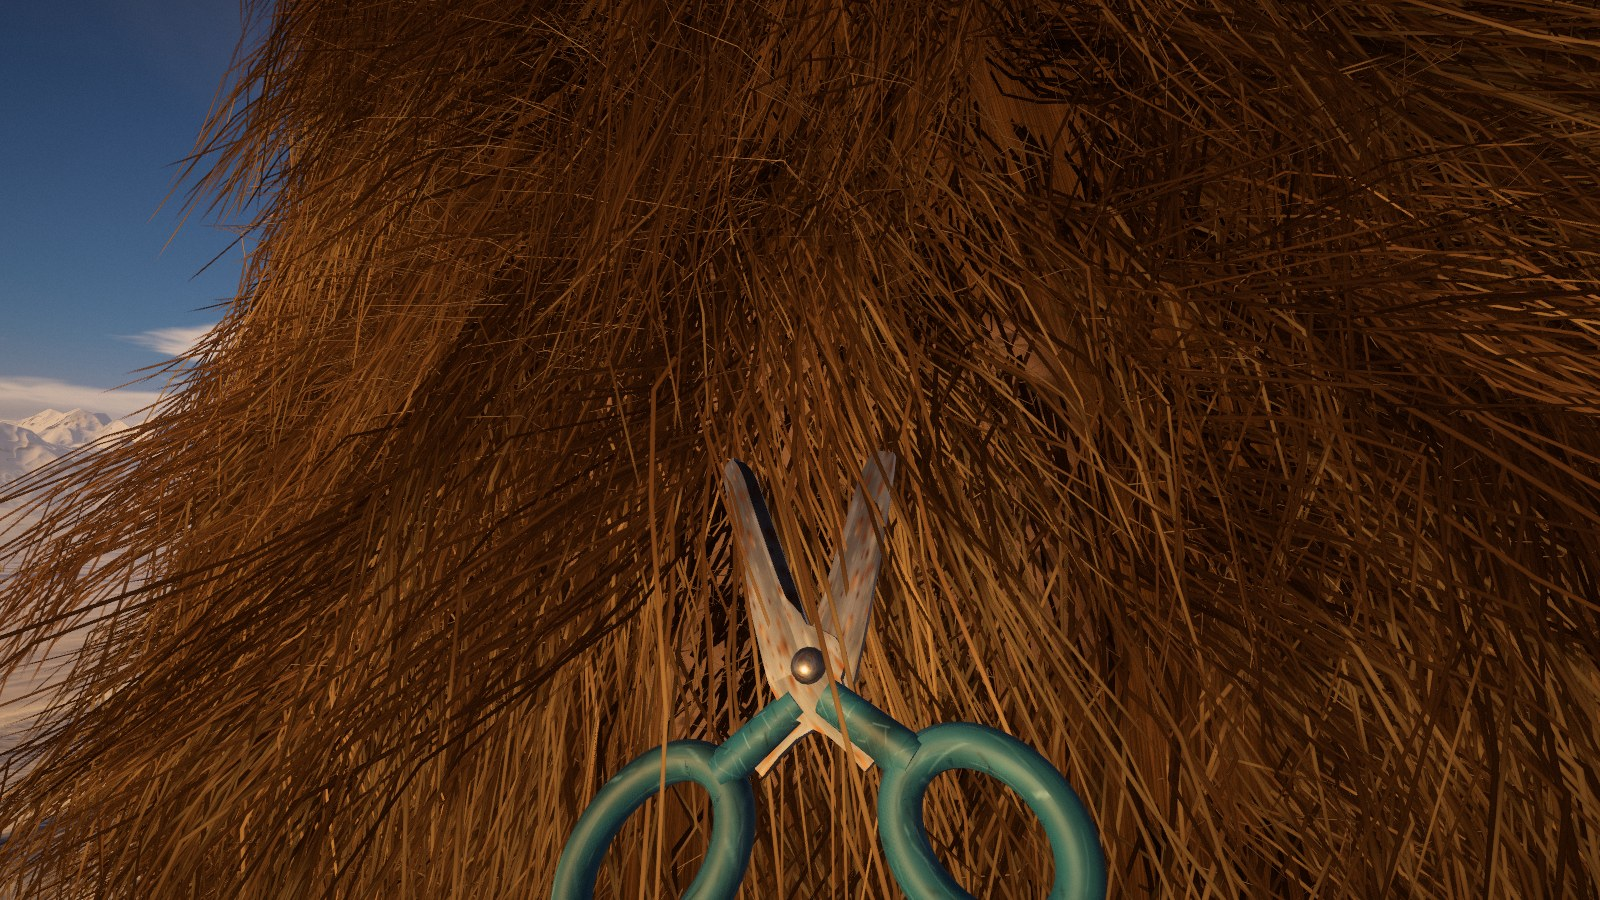
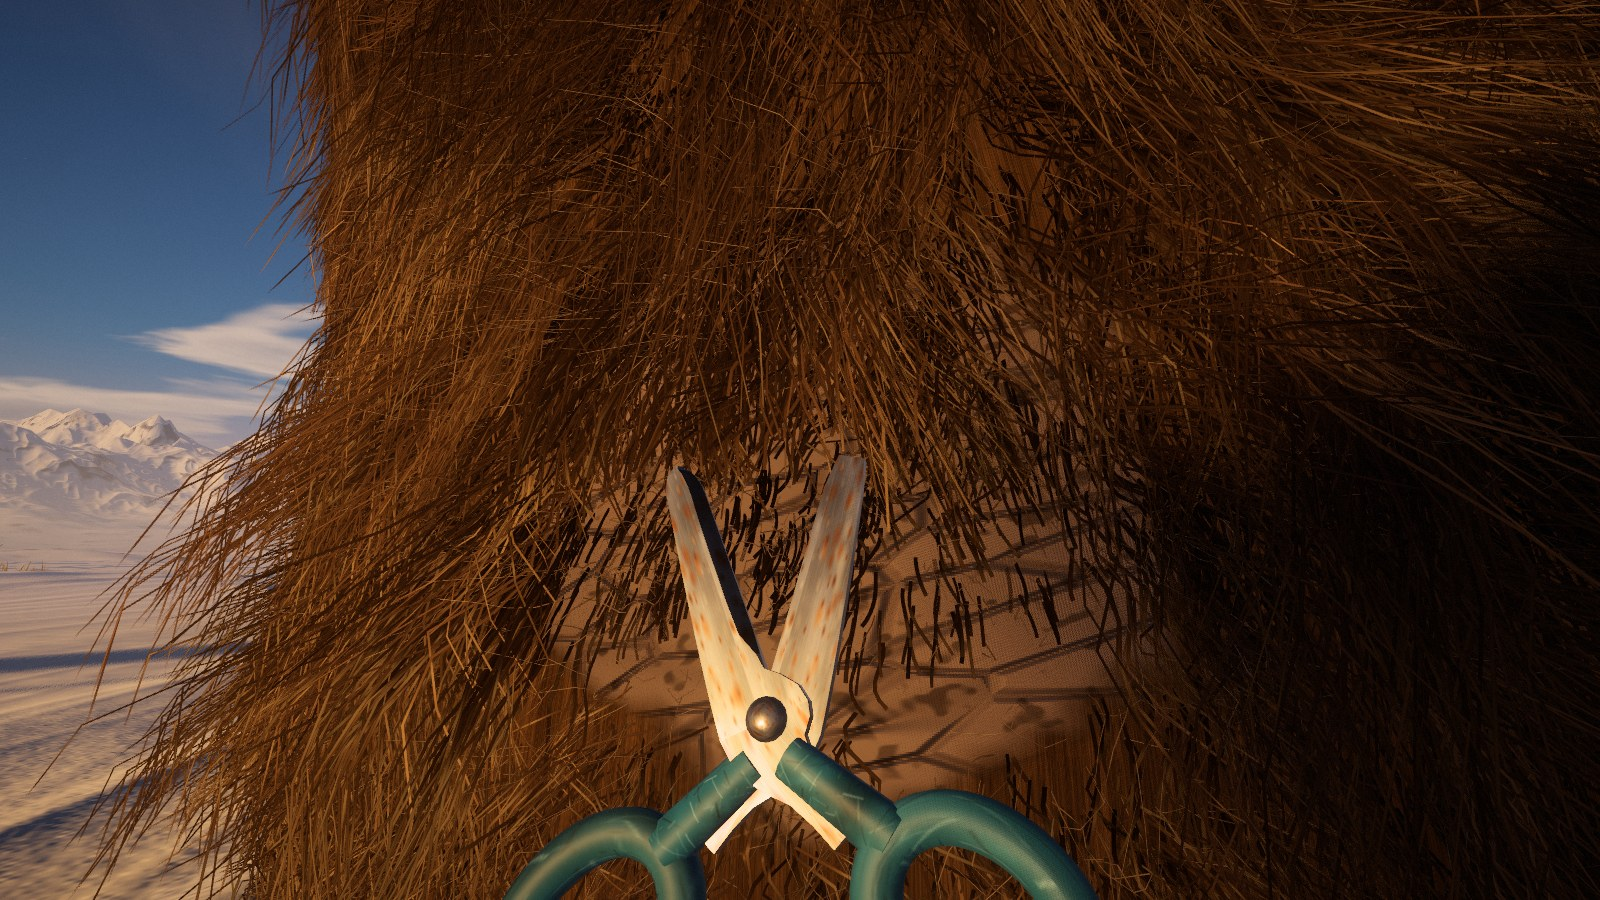
The small bad scissors cut four times as much, and what is cut can be seen to be gone
A minute of steady work round a foreleg with the scissors a new game starts
with took off 30 g (7 gold): several minutes before anything at all could be
afforded, and nothing to show for it on the mammoth, because what was shorn
near the skin stayed hidden under the hair hanging across it from higher up.

- The scissors are half as big again (11 cm, blades of 5), cut nine locks in
  ten of what is between the blades (it was a little over half), cut it less
  raggedly, stick less often and close a little quicker: 125 g a minute now,
  so a pocketful in under a minute, and the shears after half a minute.
- A stroke with the blades lying on the hide takes the tuft they close on:
  the hair under them, as before, and now the hair lying across them from
  above as well, so that a bare patch is bare to look at. The shears and the
  garden clippers do the same, and stay ahead (about 210 and 240 g a minute).
- The notes on prices, the README and the picture of the scissors say what is
  now true. The game test expects a minute of scissors to cut most of a
  pocketful, allows for the tattoo that minute now uncovers, and gives the
  lemmings three quiet seconds before a patch is called finished.

Claude-Session: https://claude.ai/code/session_01BDsvMpvTNq7jPYUs2JzAv5

diff --git a/src/game/tools/scissors.js b/src/game/tools/scissors.js
@@ -1,14 +1,18 @@
 // Small bad scissors: the pair from the back of a kitchen drawer. Blunt,
 // spotted with rust, one point snapped off, faded plastic handles, and a rivet
-// so loose that the blades rattle and never quite meet. 7.5 cm over all, with
-// blades of 3.4 cm.
+// so loose that the blades rattle and never quite meet. 11 cm over all, with
+// blades of 5 cm.
 //
-// They cut like it. Hair folds between the blades as often as it parts, what
-// does part is chewed off at uneven lengths, and now and then they stick
-// half way through a stroke.
+// They cut like it, but they do cut: a lock in ten folds between the blades
+// and slips out, what parts is chewed off a little unevenly, and now and then
+// they stick half way through a stroke. (They were smaller and worse once.
+// Nobody could earn the price of anything better with them.)
 import * as THREE from 'three';
 import { Kit, loft, steelTextures, canvasTexture, rngFrom, smoothstep, lerp } from '../tool.js';
 
+// The pair is modelled at the size it first was, and made half as big again when it is put together (SIZE): every
+// length below is for the smaller pair, and what the game is told about it at the end is multiplied up.
+const SIZE = 1.5;
 const TIPS = [0.034, 0.0322];                // pivot to tip of each blade: the second has lost its point
 const HALF_THICK = 0.00065;
 const OPEN = (38 * Math.PI) / 180;
@@ -130,9 +134,13 @@ export function buildSmallScissors() {
   }, HALF_THICK);
 
   // the rivet: a small domed head above, peened flat below
-  const head = kit.add(kit.group, new THREE.SphereGeometry(0.0024, 16, 8, 0, Math.PI * 2, 0, Math.PI / 2), steel, 'scissors-rivet');
+  const rivet = new THREE.Group();
+  kit.group.add(rivet);
+  const head = kit.add(rivet, new THREE.SphereGeometry(0.0024, 16, 8, 0, Math.PI * 2, 0, Math.PI / 2), steel, 'scissors-rivet');
   head.scale.y = 0.55; head.position.y = 2 * HALF_THICK + 0.0003;
-  kit.add(kit.group, new THREE.CylinderGeometry(0.0021, 0.0021, 0.0007, 12), steel, 'scissors-rivet').position.y = -2 * HALF_THICK - 0.0005;
+  kit.add(rivet, new THREE.CylinderGeometry(0.0021, 0.0021, 0.0007, 12), steel, 'scissors-rivet').position.y = -2 * HALF_THICK - 0.0005;
+  // (all of it, half as big again)
+  for (const part of [kit.upper, kit.lower, rivet]) part.scale.setScalar(SIZE);
 
   // what may not pass through things (the larger ring stands for both)
   const leverSamples = [];
@@ -149,29 +157,31 @@ export function buildSmallScissors() {
     leverSamples.push([centre.x + back.x * ra * Math.cos(th) + out.x * rb * Math.sin(th), 0, centre.z + back.z * ra * Math.cos(th) + out.z * rb * Math.sin(th), 0.0034]);
   }
 
+  const big = (list) => list.map((v) => v * SIZE);
   return {
     id: 'scissors',
     name: 'Small bad scissors',
-    blurb: 'Blunt and loose. They miss half of what they bite.',
+    blurb: 'Blunt and loose, but they bite. One lock in ten gets away.',
     seed: 5,
     kit,
-    halfThick: HALF_THICK,
+    halfThick: HALF_THICK * SIZE,
     open: OPEN,
-    tip: TIPS[0],
-    blade: { from: 0.002, to: TIPS[0], back0: 0.0058, back1: 0.0026, exp: 1.3, edge: 0.0035 },
-    part: { above: 0.02, below: 0.012 },
-    pivotClear: 0.006,
-    cutInner: 0.006,
-    leverSamples,
-    fixedSamples: [[0, 0.0018, 0, 0.003], [0, -0.0016, 0, 0.0028]],
+    tip: TIPS[0] * SIZE,
+    blade: { from: 0.002 * SIZE, to: TIPS[0] * SIZE, back0: 0.0058 * SIZE, back1: 0.0026 * SIZE, exp: 1.3, edge: 0.0035 * SIZE },
+    part: { above: 0.02, below: 0.014 },
+    pivotClear: 0.006 * SIZE,
+    cutInner: 0.006 * SIZE,
+    leverSamples: leverSamples.map(big),
+    fixedSamples: [[0, 0.0018, 0, 0.003], [0, -0.0016, 0, 0.0028]].map(big),
     // held in the right hand, thumb uppermost: off to the right, turned in towards the middle
-    hold: { pos: [0.034, -0.06, -0.115], tilt: (20 * Math.PI) / 180, yaw: (-14 * Math.PI) / 180, roll: (22 * Math.PI) / 180, sway: 0.6 },
-    lie: { tip: 0.004, pivot: 0.007 },
-    reach: 0.115,
-    // stiff to close, slow to open, and three strokes in ten they stick part way
-    stroke: { delay: 0.05, speed0: 1.6, accel: 55, max: 6.5, shut: 0.05, shutHeld: 0.09, open: 0.2, kick: 0.25, catch: { chance: 0.3, time: 0.11 } },
-    // little more than half of what lies between the blades is cut; the rest folds over and slips out, and what is cut is cut ragged
-    cut: { below: 0.018, min: 0.008, chance: 0.55, ragged: 0.012 },
+    hold: { pos: [0.04, -0.072, -0.142], tilt: (20 * Math.PI) / 180, yaw: (-14 * Math.PI) / 180, roll: (22 * Math.PI) / 180, sway: 0.6 },
+    lie: { tip: 0.005, pivot: 0.009 },
+    reach: 0.145,
+    // stiff to close and slow to open, and one stroke in seven they stick part way
+    stroke: { delay: 0.05, speed0: 1.8, accel: 62, max: 7, shut: 0.05, shutHeld: 0.085, open: 0.18, kick: 0.3, catch: { chance: 0.14, time: 0.09 } },
+    // nine locks in ten of what lies between the blades are cut; the others fold over and slip out, and what is cut is cut a little ragged
+    // (lying on the hide they take the whole tuft: what is under the blades, and what hangs across them for a finger's breadth above)
+    cut: { below: 0.024, above: 0.03, min: 0.007, chance: 0.9, ragged: 0.006 },
     voice: 'scissors',
     // the loose rivet: the blades never lie true, and they shiver after every stroke and with every step
     animate: (tool) => {

diff --git a/src/mammoth/mammoth.js b/src/mammoth/mammoth.js
@@ -504,11 +504,14 @@ export class Mammoth {
    * `halfAngle`. A lock is cut where it crosses that sector. With `below` > 0
    * the blades are lying on the hide, and everything between them and the
    * skin (to that depth) goes too: hair rooted under the blades is cut to
-   * stubble. `blades`, `shape` and `backAt` describe the blades themselves:
+   * stubble. So does what lies over them, as far as `above` (the tuft the
+   * blades close on is the hair on top of them as well as the hair beneath;
+   * otherwise what is shorn stays hidden under what hangs across it from
+   * higher up). `blades`, `shape` and `backAt` describe the blades themselves:
    * hair that would pass through one has been swept into the gap, and is cut
    * too. Returns one entry per lock that would be cut.
    */
-  findCuts({ pivot, forward, normal, radius, inner = 0, halfAngle = Math.PI, minLength = 0.006, below = 0, blades = null, shape = null, backAt = null }) {
+  findCuts({ pivot, forward, normal, radius, inner = 0, halfAngle = Math.PI, minLength = 0.006, below = 0, above = 0.003, blades = null, shape = null, backAt = null }) {
     const S = this.sampler;
     S.begin(this.furMats.uniforms.uBreath.value);
     const fx = forward.x, fy = forward.y, fz = forward.z, nx = normal.x, ny = normal.y, nz = normal.z;
@@ -517,7 +520,7 @@ export class Mammoth {
     const full = halfAngle >= Math.PI - 1e-3;
     const cr = (full ? radius : radius * 0.62) + (blades ? 0.02 : 0);
     const cx = full ? px : px + fx * radius * 0.5, cy = full ? py : py + fy * radius * 0.5, cz = full ? pz : pz + fz * radius * 0.5;
-    const NS = 12, above = 0.003;
+    const NS = 12;
     const P = [0, 0, 0], Q = [0, 0, 0];
     const out = [];
     // is a point (given relative to the pivot) over the sector? leaves its polar coordinates in ru, rphi
@@ -557,7 +560,7 @@ export class Mammoth {
         S.point(0, P);
         let dPrev = (P[0] - px) * nx + (P[1] - py) * ny + (P[2] - pz) * nz;
         let len = -1, hx = 0, hy = 0, hz = 0, tx = 0, ty = 0, tz = 0;
-        if (below > 0 && dPrev <= above && dPrev >= -below && over(P[0] - px, P[1] - py, P[2] - pz)) {
+        if (below > 0 && dPrev <= 0.003 && dPrev >= -below && over(P[0] - px, P[1] - py, P[2] - pz)) {
           // rooted under the blades: down to stubble, each lock a slightly different length
           len = minLength * (1 + 0.8 * a.iA[i * 4 + 2]);
           hx = P[0]; hy = P[1]; hz = P[2];

diff --git a/src/game/catalog.js b/src/game/catalog.js
@@ -5,16 +5,19 @@
 // that, 2 kg grows where it can be reached from the snow, another 5 kg within
 // reach of the milk crate, 22 kg more from the step ladder, 29 kg from the
 // painter's ladder, and the last 12 kg from the top of the fire ladder or the
-// air. A patient elf takes about half a gram a second with the bad scissors,
-// 3 to 5 with the shears, 5 to 10 with the garden clippers, and as much as the
-// hands can sweep with the electric ones. So: a pocketful (100 g, three
-// minutes of bad scissors) buys the shears and a broom; what grows near the
-// ground pays for the first ladders and the clippers; and after that each
-// purchase opens up more mammoth than it cost.
+// air. Working steadily round a foreleg an elf takes about 2 grams a second
+// with the bad scissors, 3.5 with the shears and 4 with the garden clippers
+// (tools/loop-test.mjs measures the first; all of them do better where the
+// hair is longer), and as much as the hands can sweep with the electric ones.
+// So: a pocketful (100 g, under a minute of bad scissors) buys the shears and
+// a broom; what grows near the ground pays for the first ladders and the
+// clippers; and after that each purchase opens up more mammoth than it cost.
+// (The scissors were a quarter as good once, and three minutes of them bought
+// nothing. Nobody enjoyed it.)
 //
 // The hired help. A lemming gnaws about three quarters of a gram a second
-// where the hair is long (a little better than the bad scissors, a fifth of
-// the shears) and finds its own way to wherever any is left, which is what it
+// where the hair is long (a third of the bad scissors, a fifth of the
+// shears) and finds its own way to wherever any is left, which is what it
 // is for: the last patches are hard to find. One earns its 60 gold back in the
 // first six minutes if somebody picks up after it; thirty of them take about
 // an hour over a whole mammoth, and a few minutes over what an elf has left

diff --git a/src/game/tool.js b/src/game/tool.js
@@ -655,8 +655,9 @@ export class Tool {
     out.radius = def.tip - 0.003;
     out.inner = def.cutInner;
     out.halfAngle = this.angle / 2;
-    // lying on the hide, the stroke takes everything between the blades and the skin
+    // lying on the hide, the stroke takes everything between the blades and the skin, and the hair lying across them
     out.below = this.lying > 0.5 ? def.cut.below : 0;
+    out.above = this.lying > 0.5 ? def.cut.above ?? 0.003 : 0.003;
     out.minLength = def.cut.min;
     // each blade: along it from the pivot, and across it towards its cutting edge
     const hf = this.angle / 2, c = Math.cos(hf), sn = Math.sin(hf);

diff --git a/src/game/tools/garden.js b/src/game/tools/garden.js
@@ -143,7 +143,7 @@ export function buildGardenClippers() {
     stroke: { delay: 0.045, speed0: 2.5, accel: 95, max: 11, shut: 0.04, shutHeld: 0.1, open: 0.17, kick: 1 },
     // what a stroke does: how deep under blades lying on the hide it reaches, the stubble it leaves,
     // the share of the locks between the blades that it really cuts, and how unevenly
-    cut: { below: 0.03, min: 0.006, chance: 1, ragged: 0 },
+    cut: { below: 0.03, above: 0.035, min: 0.006, chance: 1, ragged: 0 },
     voice: 'garden',
   };
 }

diff --git a/src/game/tools/sheep.js b/src/game/tools/sheep.js
@@ -162,7 +162,7 @@ export function buildSheepShears() {
     reach: 0.19,
     // the squeeze is quick, and the bow flings the blades open again, quivering for a moment
     stroke: { delay: 0.03, speed0: 3.5, accel: 130, max: 12, shut: 0.03, shutHeld: 0.06, open: 0.085, kick: 0.5, bounce: { amount: 0.07, decay: 16, rate: 52 } },
-    cut: { below: 0.03, min: 0.004, chance: 1, ragged: 0 },
+    cut: { below: 0.03, above: 0.03, min: 0.004, chance: 1, ragged: 0 },
     voice: 'sheep',
     onAngle: setBow,
   };

diff --git a/README.md b/README.md
@@ -165,7 +165,7 @@ pays 25 gold the hundred grams. The whole coat is about 70 kg.
 
 | | Gold | |
 | --- | --- | --- |
-| Shears, garden clippers, beard shaver, electric shears | 15, 120, 300, 600 | Each cuts more, or closer, than the last. A minute of work: about 25 g with the bad scissors, 200 to 300 g with the shears or the clippers, and as much as you can sweep with the electric ones |
+| Shears, garden clippers, beard shaver, electric shears | 15, 120, 300, 600 | Each cuts more, or closer, than the last. A minute of steady work round a leg: about 125 g with the bad scissors, 200 g with the shears, 240 g with the clippers (all of them more where the hair is longer), and as much as you can sweep with the electric ones |
 | Twig broom, push broom | 10, 80 | Gather what is under the head of the broom at each stroke |
 | Hand vacuum, shop vacuum; more suck | 350, 1000; 250, 600 | Hair flies up the nozzle from a distance |
 | Sack, wheelbarrow, bottomless sack | 30, 180, 600 | Carry 350 g, 1.2 kg, 5 kg |
@@ -206,11 +206,13 @@ Walk up to the mammoth. Held away from it, a tool points ahead with its blades
 level, and a snip trims whatever hair hangs between them. Press it into the coat
 and it turns to lie flat on the hide, pointing up the limb, as a shearer holds
 it: a snip there takes everything between the blades and the skin down to
-stubble.
+stubble, and trims off the hair that hangs across the blades from higher up, so
+that what has been shorn is bare to look at and not hidden under the rest of
+the coat.
 
 | Tool | Size | What it is like |
 | --- | --- | --- |
-| Small bad scissors | 7.5 cm, blades 3.4 cm | The pair from the back of a kitchen drawer: blunt, spotted with rust, one point snapped off, a rivet so loose the blades rattle. A bite the width of a finger. A little over half of the hair between the blades is cut; the rest folds over and slips out. What is cut is chewed off at uneven lengths, three strokes in ten stick part way, and they are slow to open again |
+| Small bad scissors | 11 cm, blades 5 cm | The pair from the back of a kitchen drawer: blunt, spotted with rust, one point snapped off, a rivet so loose the blades rattle. A bite two fingers wide. Nine locks in ten between the blades are cut; the tenth folds over and slips out. What is cut is chewed off a little unevenly, one stroke in seven sticks part way, and they are slow to open again. (They were smaller and much worse once: it took minutes of them to afford anything, and nothing they cut could be seen to be gone) |
 | Shears | 17 cm, blades 9.5 cm | Blade shears, as used on sheep for centuries: one strip of spring steel, two broad blades and a bow at the back. One hand, a quick squeeze, and the bow throws them open again with a quiver. A clean cut, closest to the skin of the three |
 | Garden clippers | 27 cm, blades 13.5 cm | Hedge shears held in both hands. The biggest bite of the hand tools, and a heavier, slower stroke |
 | Electric shears | 18 cm, comb 5.5 cm | A cordless shearing handpiece: a comb of thirteen teeth that slides along the skin, and a four-pointed cutter thrown from side to side across it. No stroke: hold it on, lay it on the hide and push. It takes a strip the width of the comb, leaves three to five millimetres of stubble, and is hard to outrun |
